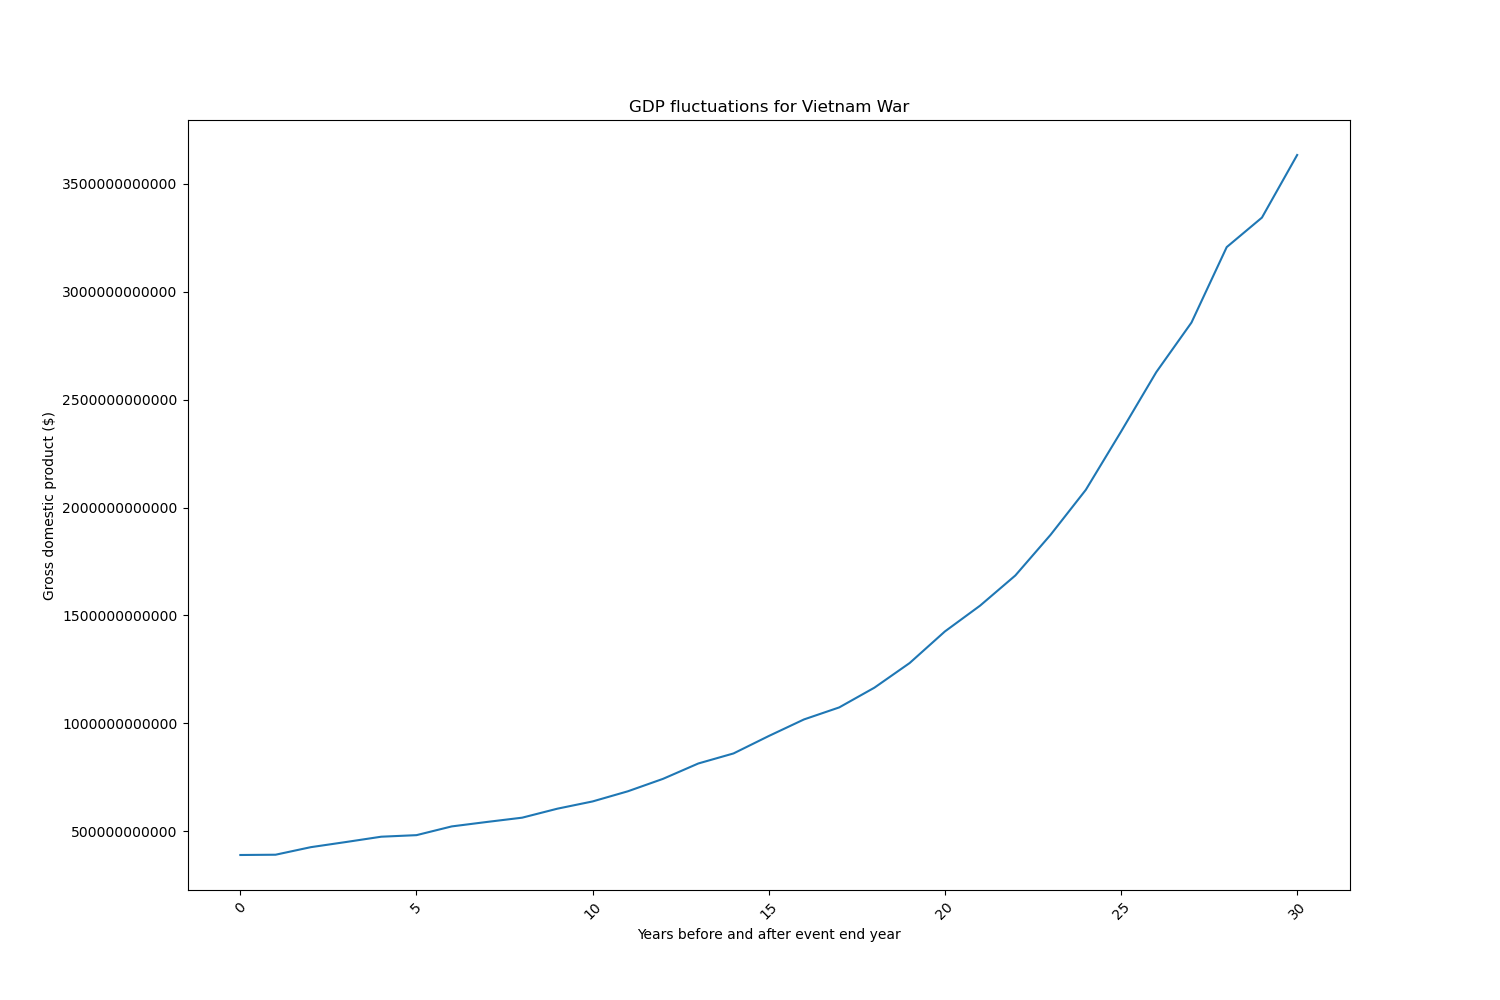
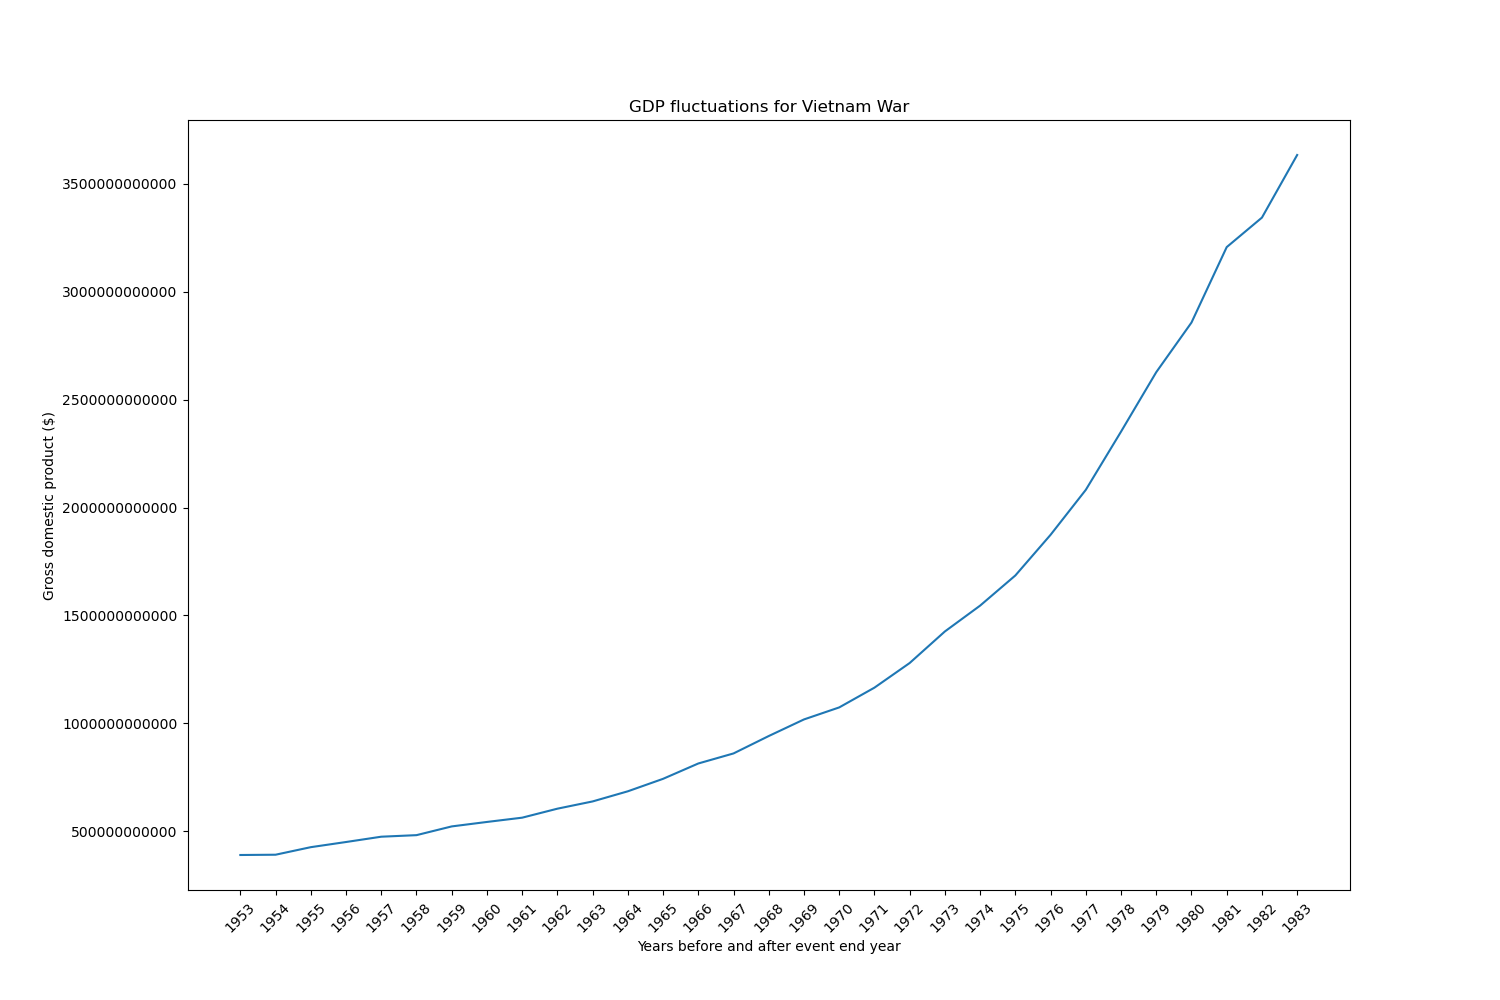
Updated gdp graphing functions.

Changed region(s): [[0.1533, 0.899, 0.8893, 0.961]]

diff --git a/final_project.py b/final_project.py
@@ -454,7 +454,7 @@ def get_gdp_info(us_gdp: pd.DataFrame, df: pd.DataFrame):
     :param df: the gdp dataframe for selected events
     :return:
     >>> pandemics_gdp = read_event_facts('data/event_facts.csv', types='Pandemics')
-    >>> us_gdp_test = pd.read_csv('data/gdp_usafacts.csv', header=0)
+    >>> us_gdp_test = pd.read_csv('data/gdp_usafacts.csv')
     >>> get_gdp_info(us_gdp_test, pandemics_gdp)
     """
     # go through event file and get start_year, end_year
@@ -476,6 +476,8 @@ def get_gdp_info(us_gdp: pd.DataFrame, df: pd.DataFrame):
 
             # Slice GDP df according to event
             event_gdp = us_gdp.loc[0, str(before_event): str(after_event)]
+            event_gdp = event_gdp.to_frame()
+            event_gdp = event_gdp.apply(pd.to_numeric)  # convert all columns of DataFrame
 
             # call plot_gdp for each event
             plot_gdp(event_gdp, event_name)
@@ -490,11 +492,11 @@ def plot_gdp(gdp_df: pd.DataFrame, event_name: str):
     :return: plot of the given dataframe
     >>> us_gdp_df = pd.read_csv('data/gdp_usafacts.csv', header=0)
     >>> event_gdp = us_gdp_df.loc[0, '1947': '1968']
+    >>> event_gdp = event_gdp.to_frame().T
     >>> plot_gdp(event_gdp, "Asian Flu")
     """
 
     fig, ax = plt.subplots(figsize=(15, 10))
-    gdp_df= gdp_df.values.astype(int)
     ax.plot(gdp_df)
 
     ax.set_xlabel("Years before and after event end year")
@@ -790,9 +792,9 @@ def main():
     dowjones_data = 'data/dow_jone_monthly.csv'
     us_gdp_data = 'data/gdp_usafacts.csv'
 
-    analyze_index(sp500_data, dowjones_data, events_data)
-    analyze_cpi(us_cpi_data, events_data)
-    #analyze_gdp(us_gdp_data, events_data)
+    #analyze_index(sp500_data, dowjones_data, events_data)
+    #analyze_cpi(us_cpi_data, events_data)
+    analyze_gdp(us_gdp_data, events_data)
 
 
 if __name__ == '__main__':
